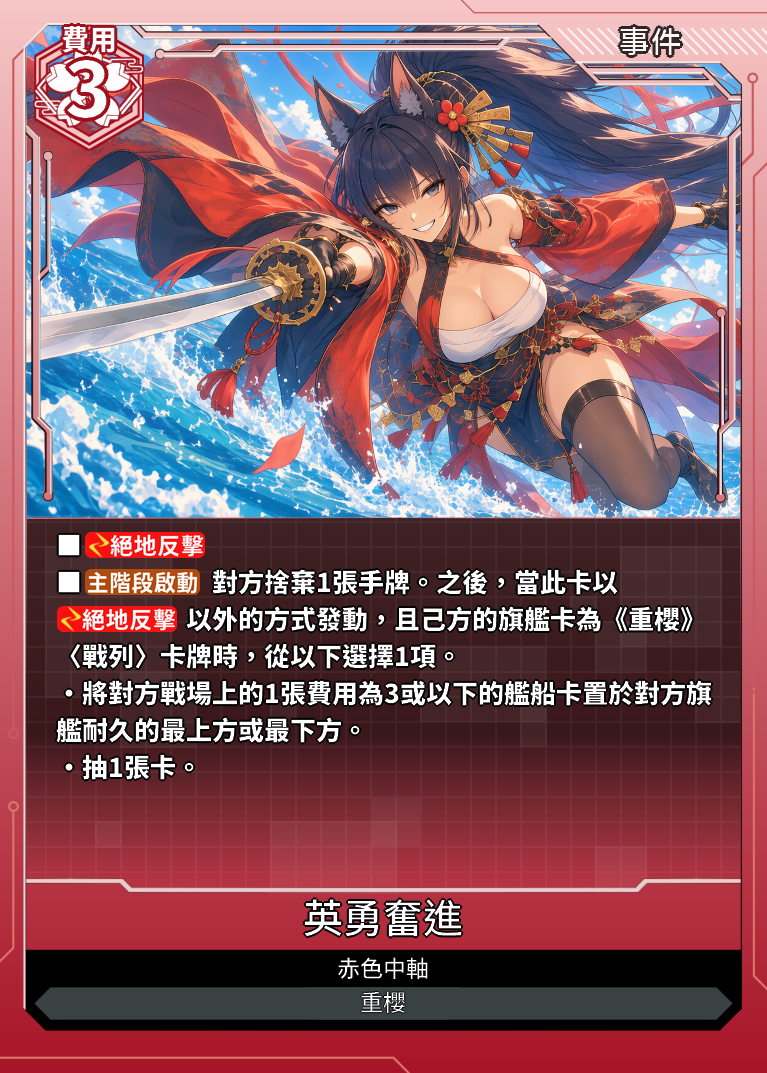
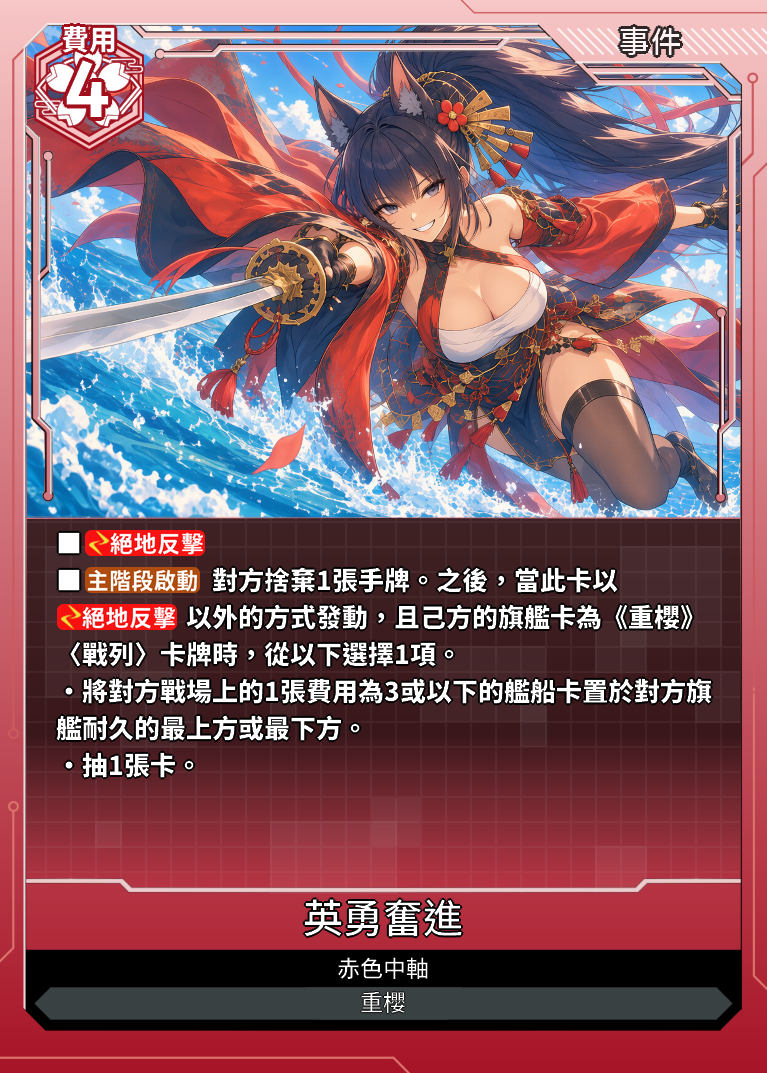
修紀伊

Changed region(s): [[0.06, 0.4921, 0.9296, 0.7381], [0.06, 0.0308, 0.1499, 0.123]]

diff --git a/data.js b/data.js
@@ -26523,7 +26523,7 @@ const cards = [
             "支援範圍": "手牌·戰場",
             "支援值": "100"
         },
-        "card_effect": "■【登場時】將所有作為己方的旗艦耐久的卡牌加入手牌。■【每回合1次】己方發動費用為4或以上的《重櫻》事件卡時，若己方戰場上不存在除此卡以外的「紀伊」艦船卡，將己方卡組最上方的1張卡牌置於旗艦耐久最上方。",
+        "card_effect": "■【登場時】將所有作為己方的旗艦耐久的卡牌加入手牌。■【每回合1次】己方發動費用為4或以上的《重櫻》事件卡時，若己方戰場上不存在除此卡以外的「紀伊」艦船卡，可以將此卡以及己方的旗艦卡轉為休息狀態：將己方卡組最上方的1張卡牌置於旗艦耐久最上方。之後，對方可以將其自身的1張作為旗艦耐久的卡牌加入手牌。",
         "acquisition_method": "CE03-早期測試"
     },
 	{
@@ -26647,7 +26647,7 @@ const cards = [
         "attributes": {
             "顏　色": "紅",
             "種　類": "事件卡",
-            "費　用": "3",
+            "費　用": "4",
             "戰　力": "-",
             "陣　營": "重櫻",
             "艦船類型": "-",
